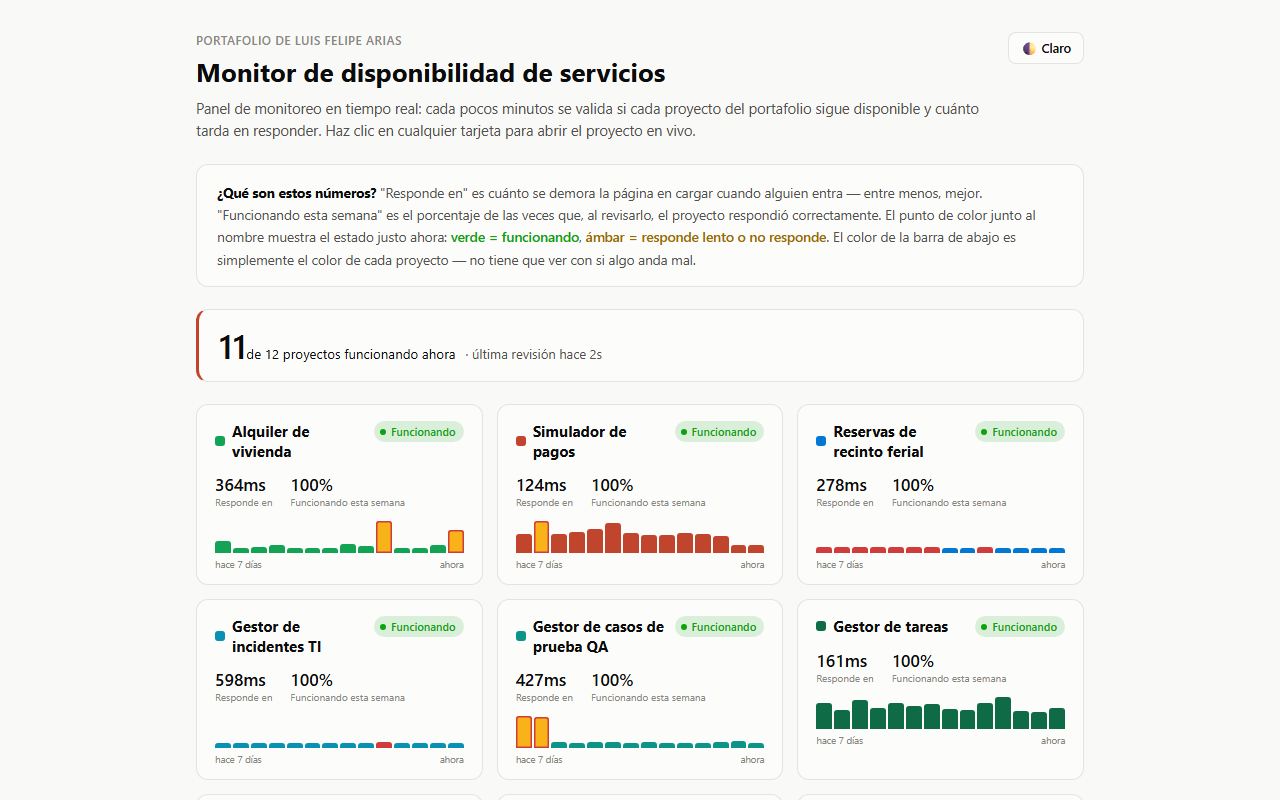
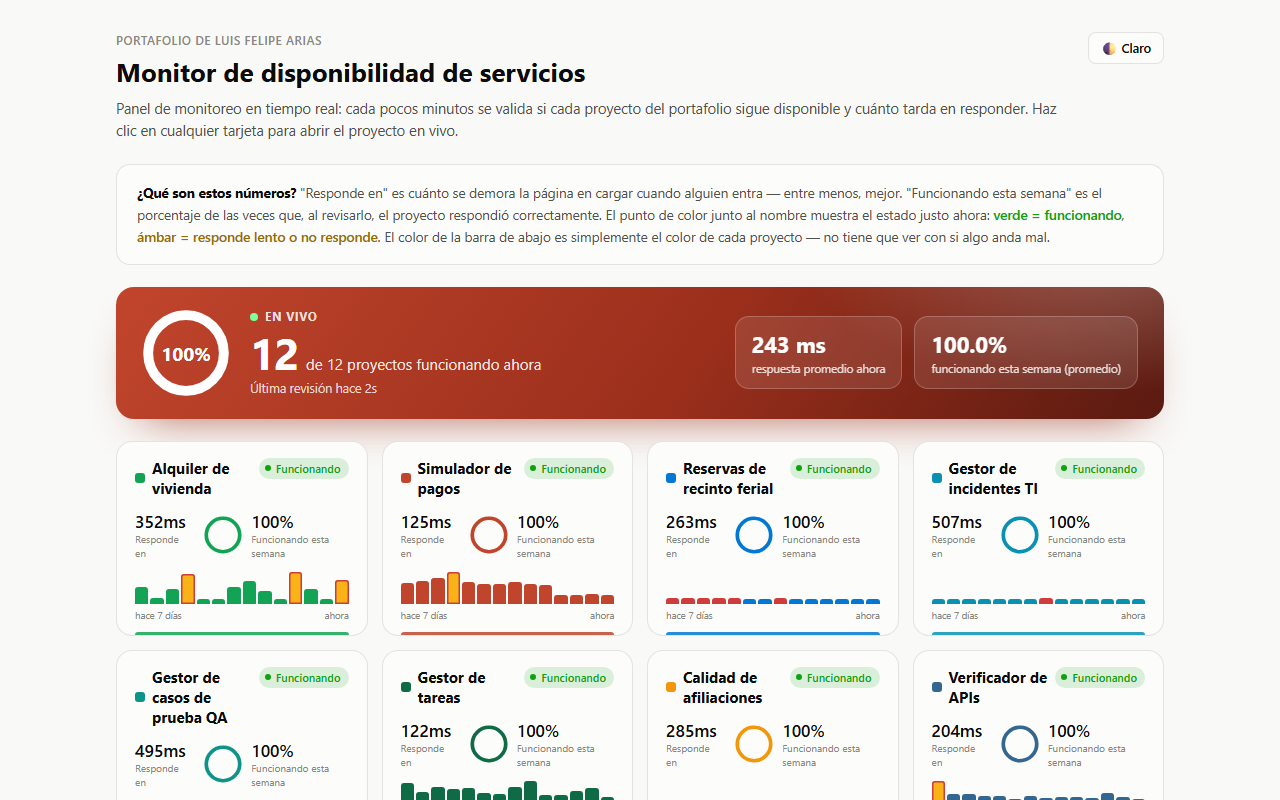
docs(manual): tablero nuevo, estados sin revisión reciente, tablet y celular, instalación, sin conexión, 404 y horario de revisiones [skip ci]

diff --git a/docs/MANUAL.md b/docs/MANUAL.md
@@ -72,10 +72,10 @@ Qué servicio de nube, base de datos o API usa el proyecto y para qué sirve cad
 
 | Elemento | Qué significa |
 |---|---|
-| Contador superior | Cuántos proyectos funcionan ahora y hace cuánto fue la última revisión |
-| Punto y etiqueta de estado | **Funcionando** (verde), **Lento** o **No responde** (ámbar) |
+| Tarjeta principal | Un anillo con el porcentaje de proyectos funcionando ahora, cuántos son de cuántos, hace cuánto fue la última revisión, la **respuesta promedio** de los que responden y el promedio de **funcionando esta semana**. El punto verde de **En vivo** late mientras el panel se actualiza solo |
+| Punto y etiqueta de estado | **Funcionando** (verde), **Lento** o **No responde** (ámbar). Si un proyecto lleva más de un día sin revisión, la etiqueta dice **N d sin revisar** (gris) en lugar de mostrar un estado viejo como si fuera de ahora, y la tarjeta principal indica cuántos están en esa situación |
 | Responde en | Cuánto tardó la página en cargar en la última revisión; entre menos, mejor |
-| Funcionando esta semana | Porcentaje de revisiones de los últimos 7 días en que respondió bien |
+| Funcionando esta semana | Porcentaje de revisiones de los últimos 7 días en que respondió bien, con un anillo del color del proyecto |
 | Barras | Historial reciente, de "hace 7 días" a "ahora". El color es el del proyecto; las barras resaltadas marcan revisiones lentas o fallidas |
 | Tarjeta | Al pulsarla abre la demo del proyecto |
 | Claro / Oscuro | Cambia el tema |
@@ -83,6 +83,13 @@ Qué servicio de nube, base de datos o API usa el proyecto y para qué sirve cad
 La página completa, con todas las tarjetas:
 
 ![Panel completo](img/manual/02-panel-completo.png)
+
+**En la tablet y en el celular** las tarjetas se reacomodan en dos columnas o en una, y la tarjeta
+principal pone sus dos cifras debajo del anillo. La página se ajusta sola al girar la pantalla.
+
+![Panel en una tablet en vertical](img/manual/03-tablet-vertical.png)
+
+![Panel en el celular](img/manual/04-movil.png)
 
 ### 4.2 Usar las insignias
 
@@ -109,7 +116,24 @@ planes gratuitos que se duermen sin uso; la primera visita los despierta y tarda
 **¿Puedo agregar mi proyecto?** El monitoreo cubre solo los proyectos de este portafolio
 (`backend/app/projects.py`).
 
-**¿Qué significa la pantalla "Estamos en mantenimiento"?** El servicio o su base de datos no están respondiendo en ese momento. No se perdió nada: el historial de disponibilidad siguen guardados, y ninguna acción quedó a medias (si no viste la confirmación, no se guardó). La pantalla se actualiza sola y vuelve a la normalidad apenas el servicio responda; también puedes reintentar más tarde.
+**¿Cada cuánto se revisa cada proyecto?** Los que están siempre encendidos, cada pocos minutos.
+Los que se apagan sin uso (para no generar costos), a las 8, 12, 16 y 20 h de Bogotá; si el monitor
+estaba dormido a esa hora, hace la revisión pendiente apenas vuelve a estar activo.
+
+**¿Puedo instalarlo como aplicación?** Sí. En Chrome o Edge usa **Instalar aplicación** (ícono
+en la barra de direcciones o menú ⋮); en el iPhone, en Safari, **Compartir → Agregar a inicio**.
+
+**¿Qué pasa si me quedo sin internet?** Aparece la pantalla **Sin conexión**, que reintenta sola
+cada pocos segundos (o con **Reintentar ahora**). Los proyectos no dependen de este panel.
+
+![Pantalla sin conexión con reintento automático](img/manual/06-sin-conexion.png)
+
+**Abrí un enlace y dice "Esta dirección no responde".** La dirección no existe en el monitor (un
+enlace viejo o mal copiado). Usa **Ver el monitor**.
+
+![Página no encontrada](img/manual/05-no-encontrada.png)
+
+**¿Qué significa la pantalla "Estamos en mantenimiento"?** El servicio o su base de datos no están respondiendo en ese momento. No se perdió nada: el historial de disponibilidad sigue guardado, y ninguna acción quedó a medias (si no viste la confirmación, no se guardó). La pantalla reintenta sola cada 15 segundos (un anillo muestra los que faltan) y vuelve a la normalidad apenas el servicio responda; también puedes reintentar más tarde.
 
 ## 5. Seguridad: tu información protegida
 
